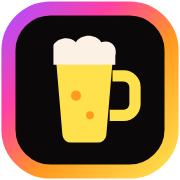
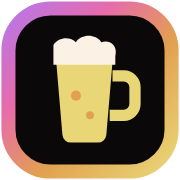
Softer palette (option 1b): desaturated neon tokens, gentler glow, cover at 65% saturation; fix ticket link wrapping
Claude-Session: https://claude.ai/code/session_01NmZMrzAUqiDvU5uRGMaJ7K

diff --git a/style.css b/style.css
@@ -8,8 +8,10 @@
   --line: #3a2a2e;
   --cream: #fbf1e4;
   --muted: #c4b0a2;
-  --red: #ff4d3d; --orange: #ff9a1f; --yellow: #ffe14d; --green: #7ee23f;
-  --cyan: #22c7f5; --blue: #3d8bff; --pink: #ff3fa4; --violet: #b14dff;
+  /* softened (~30% less saturated) versions of the cover's neon colors */
+  --red: #e7746a; --orange: #e2a050; --yellow: #e9d677; --green: #8fd065;
+  --cyan: #50bddb; --blue: #6a9ce7; --pink: #e76bac; --violet: #b777e9;
+  --shade: #ab681c;  /* 3D shadow under yellow digits and buttons */
   --neon: linear-gradient(115deg, var(--violet), var(--pink) 25%, var(--red) 50%, var(--orange) 72%, var(--yellow));
   --f-display: "Fredoka", "Baloo 2", "Arial Rounded MT Bold", system-ui, sans-serif;
   --f-body: "Nunito", "Segoe UI", system-ui, sans-serif;
@@ -20,9 +22,9 @@ html { scroll-behavior: smooth; scroll-padding-top: 72px; background: var(--nigh
 body {
   margin: 0; color: var(--cream); font: 17px/1.6 var(--f-body);
   background:
-    radial-gradient(900px 520px at 8% -6%, rgb(255 150 40 / .20), transparent 70%),
-    radial-gradient(800px 480px at 96% 4%, rgb(255 63 164 / .13), transparent 70%),
-    radial-gradient(1000px 600px at 50% 110%, rgb(255 110 30 / .10), transparent 70%),
+    radial-gradient(900px 520px at 8% -6%, rgb(255 150 40 / .12), transparent 70%),
+    radial-gradient(800px 480px at 96% 4%, rgb(255 63 164 / .08), transparent 70%),
+    radial-gradient(1000px 600px at 50% 110%, rgb(255 110 30 / .06), transparent 70%),
     var(--night);
   overflow-x: hidden;
 }
@@ -42,7 +44,7 @@ a { color: var(--yellow); }
 .wire { position: absolute; inset: 0 0 auto; width: 100%; height: 56px; }
 .wire path { stroke: #4a3430; stroke-width: 1.5; }
 .bulbs { position: absolute; inset: 0; }
-.bulb { position: absolute; width: 9px; height: 12px; margin-left: -4.5px; border-radius: 50% 50% 50% 50% / 60% 60% 40% 40%; background: #ffd79a; box-shadow: 0 0 6px 2px rgb(255 190 90 / .9), 0 0 22px 6px rgb(255 140 40 / .35); }
+.bulb { position: absolute; width: 9px; height: 12px; margin-left: -4.5px; border-radius: 50% 50% 50% 50% / 60% 60% 40% 40%; background: #f3dcb8; box-shadow: 0 0 6px 2px rgb(255 200 120 / .74), 0 0 22px 6px rgb(255 160 70 / .21); }
 @media (prefers-reduced-motion: no-preference) {
   .bulb { animation: glow 3.2s ease-in-out infinite; }
   @keyframes glow { 50% { opacity: .55; box-shadow: 0 0 4px 1px rgb(255 190 90 / .7), 0 0 12px 3px rgb(255 140 40 / .2); } }
@@ -64,13 +66,14 @@ a { color: var(--yellow); }
 .neon {
   border: 4px solid transparent; border-radius: 22px;
   background: linear-gradient(var(--panel), var(--panel)) padding-box, var(--neon) border-box;
-  box-shadow: 0 0 0 1px rgb(255 255 255 / .04), -12px 0 40px -12px rgb(255 63 164 / .45), 12px 10px 40px -12px rgb(255 160 30 / .45);
+  box-shadow: 0 0 0 1px rgb(255 255 255 / .04), -12px 0 40px -12px rgb(255 63 164 / .27), 12px 10px 40px -12px rgb(255 160 30 / .27);
 }
 
 /* Hero */
 .hero { padding-block: 14px 8px; }
 .poster { margin: 0; overflow: hidden; }
-.poster img { width: 100%; height: auto; aspect-ratio: 2 / 1; object-fit: cover; border-radius: 18px; }
+.poster img { width: 100%; height: auto; aspect-ratio: 2 / 1; object-fit: cover; border-radius: 18px; filter: saturate(.65) brightness(.97); }
+.hero.ended .poster img { filter: none; }  /* real photo after the event: keep natural colors */
 
 .ticket {
   position: relative; margin: -56px auto 0; width: calc(100% - 48px); max-width: 860px;
@@ -82,7 +85,7 @@ a { color: var(--yellow); }
 .status.live { background: var(--pink); color: #fff; }
 .timer { display: flex; gap: 6px; }
 .t { width: 74px; text-align: center; background: var(--raise); border-radius: 12px; padding: 8px 0 6px; }
-.t b { display: block; font: 700 38px/1 var(--f-display); color: var(--yellow); text-shadow: 0 3px 0 #c76a00; font-variant-numeric: tabular-nums; }
+.t b { display: block; font: 700 38px/1 var(--f-display); color: var(--yellow); text-shadow: 0 3px 0 var(--shade); font-variant-numeric: tabular-nums; }
 .t i { display: block; font: 600 12px/1 var(--f-body); font-style: normal; color: var(--muted); text-transform: uppercase; letter-spacing: .08em; margin-top: 8px; }
 
 .ticket-info { min-width: 0; }
@@ -95,8 +98,8 @@ a { color: var(--yellow); }
 .rsvp { display: flex; flex-wrap: wrap; gap: 8px; margin-top: 14px; }
 .btn { display: inline-flex; align-items: center; padding: 11px 18px; border-radius: 999px; font: 600 16px/1 var(--f-display); text-decoration: none; color: var(--cream); border: 2px solid var(--line); background: var(--raise); transition: transform .15s, border-color .15s; }
 .btn:hover { border-color: var(--cream); transform: translateY(-1px); }
-.btn.primary { color: var(--panel); background: var(--yellow); border-color: var(--yellow); box-shadow: 0 4px 0 #c76a00; }
-.btn.primary:hover { box-shadow: 0 5px 0 #c76a00; }
+.btn.primary { color: var(--panel); background: var(--yellow); border-color: var(--yellow); box-shadow: 0 4px 0 var(--shade); }
+.btn.primary:hover { box-shadow: 0 5px 0 var(--shade); }
 .cal { display: inline-block; margin-top: 12px; font-size: 14px; color: var(--muted); }
 .cal[hidden] { display: none; }
 
@@ -178,7 +181,9 @@ a.link:hover .link-name { color: var(--yellow); }
 .btn.off:hover { border-color: var(--line); transform: none; }
 
 /* WhatsApp is the main channel: highlighted in the ticket and the link list */
-.wa { display: inline-flex; align-items: center; gap: 6px; margin-top: 12px; margin-inline-start: 16px; font-size: 14px; font-weight: 800; color: var(--green); }
+.ticket-links { display: flex; flex-wrap: wrap; gap: 6px 18px; margin-top: 12px; font-size: 14px; }
+.ticket-links .cal { margin-top: 0; }
+.wa { display: inline-flex; align-items: center; gap: 6px; font-weight: 800; color: var(--green); }
 .wa[hidden] { display: none; }
 .links li.featured { border-bottom: 0; padding-block: 12px; }
 .links li:not(.featured) { grid-column: 1 / -1; }
@@ -198,20 +203,20 @@ a.link:hover .link-name { color: var(--yellow); }
   .gallery[data-count="2"], .gallery[data-count="3"] { grid-template-columns: 1fr; grid-auto-rows: 220px; }
   .gallery[data-count="3"] .ph-big { grid-row: span 1; }
 }
-.wa.dc { color: #8fb4ff; }
+.wa.dc { color: #b0c6f2; }
 .links li.feat-discord .link { background: rgb(61 139 255 / .12); border-color: var(--blue); }
-.links li.feat-discord .link-name, .links li.feat-discord .go { color: #8fb4ff; }
+.links li.feat-discord .link-name, .links li.feat-discord .go { color: #b0c6f2; }
 .links li.featured .link { height: 100%; }
 
 /* "Next drinkup coming soon" state, after an event ends */
 .ticket.ended { grid-template-columns: 1fr; text-align: center; padding: 28px; }
 .ticket-next { display: grid; gap: 10px; justify-items: center; }
 .ticket-next[hidden] { display: none; }
-.next-title { margin: 0; font: 700 clamp(24px, 4vw, 32px)/1.15 var(--f-display); color: var(--yellow); text-shadow: 0 3px 0 #c76a00; text-wrap: balance; }
+.next-title { margin: 0; font: 700 clamp(24px, 4vw, 32px)/1.15 var(--f-display); color: var(--yellow); text-shadow: 0 3px 0 var(--shade); text-wrap: balance; }
 .next-body { margin: 0; color: var(--muted); max-width: 52ch; }
 .ticket-next .rsvp { justify-content: center; margin-top: 8px; }
-.btn-wa { background: var(--green); border-color: var(--green); color: var(--panel); box-shadow: 0 4px 0 #3f8a17; }
-.btn-dc { background: var(--blue); border-color: var(--blue); color: #fff; box-shadow: 0 4px 0 #1f4fa8; }
+.btn-wa { background: var(--green); border-color: var(--green); color: var(--panel); box-shadow: 0 4px 0 #447a27; }
+.btn-dc { background: var(--blue); border-color: var(--blue); color: #fff; box-shadow: 0 4px 0 #325595; }
 .btn-wa:hover, .btn-dc:hover { border-color: inherit; }
 .ticket-count[hidden], .ticket-info[hidden] { display: none; }
 

diff --git a/index.html b/index.html
@@ -66,9 +66,11 @@
         <p class="where"><a id="ev-where" href="#" target="_blank" rel="noopener">Venue TBA</a> <span id="ev-addr"></span></p>
         <p class="note" data-i18n="note">RSVP on Facebook, Luma or Meetup, or just show up. Friends welcome.</p>
         <div class="rsvp" id="rsvp"></div>
+        <div class="ticket-links">
         <a class="cal" id="ev-cal" href="#" target="_blank" rel="noopener" data-i18n="cal">+ Add to Google Calendar</a>
         <a class="wa" id="ev-wa" href="#" target="_blank" rel="noopener" data-i18n="waTicket">Get updates on WhatsApp</a>
         <a class="wa dc" id="ev-dc" href="#" target="_blank" rel="noopener" data-i18n="dcTicket">Join the Discord</a>
+        </div>
       </div>
       <div class="ticket-next" id="ev-next" hidden>
         <p class="next-title" data-i18n="nextTitle">The next drinkup is coming soon</p>

diff --git a/script.js b/script.js
@@ -55,6 +55,7 @@
     if (ended) return;
     ended = true;
     $q(".ticket").classList.add("ended");
+    $q(".hero").classList.add("ended");
     $q(".ticket-count").hidden = true;
     $q(".ticket-info").hidden = true;
     $("ev-next").hidden = false;
